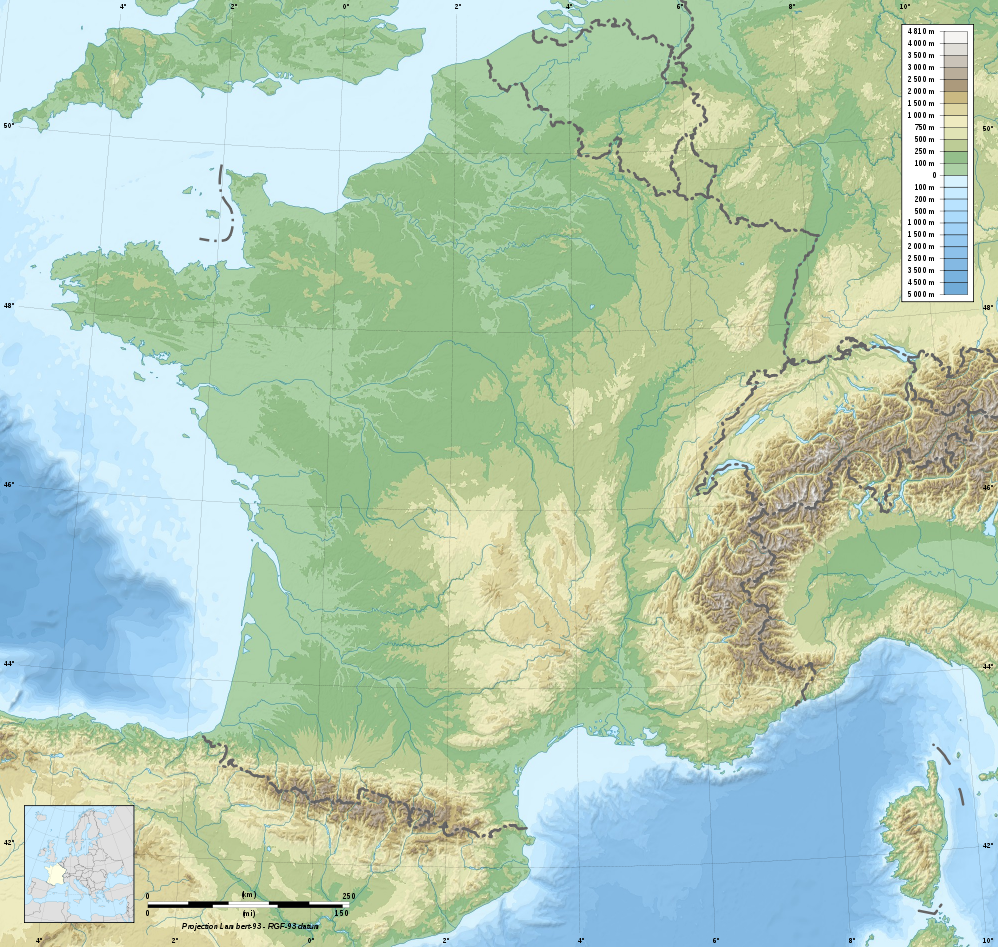
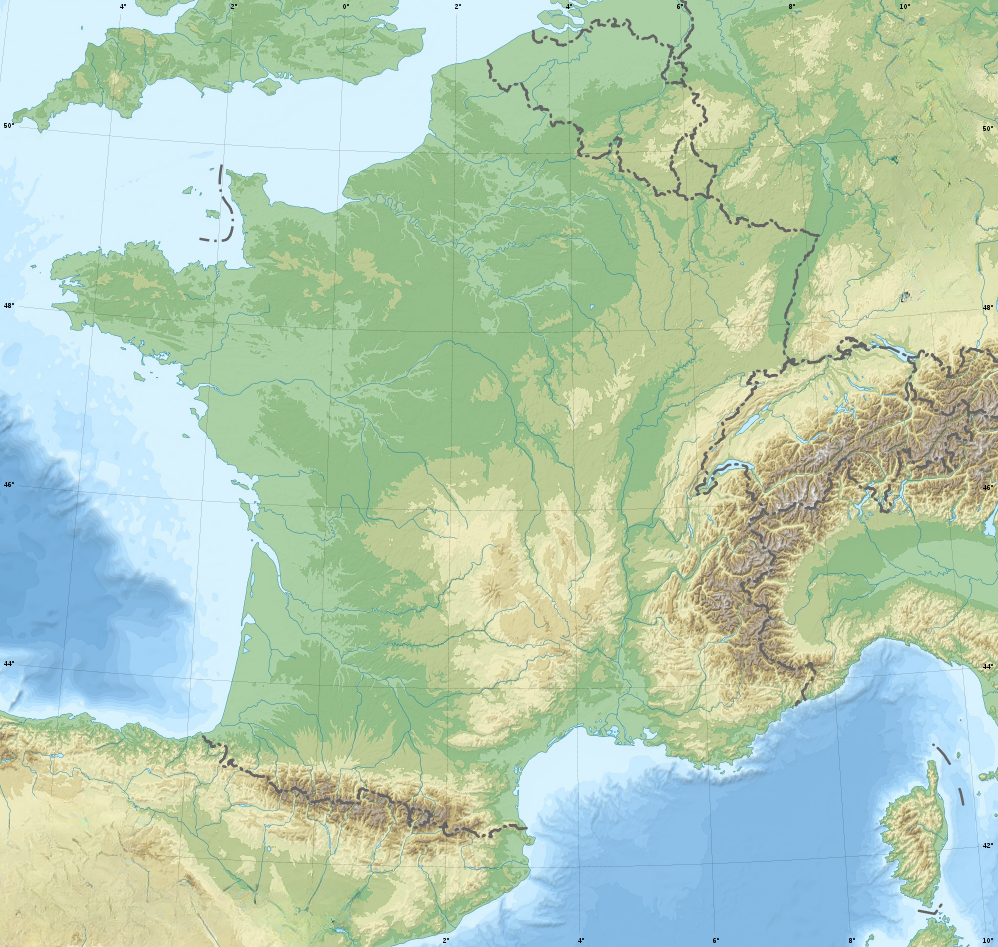
add pin, change map pic, modify PagePrincipale.css for pin and Map, css for PagePrincipale

Changed region(s): [[0.0, 0.8268, 0.3727, 1.0], [0.8697, 0.0, 0.994, 0.3369]]

diff --git a/client/src/components/styles/PagePrincipale.css b/client/src/components/styles/PagePrincipale.css
@@ -2,23 +2,29 @@
   display: flex;
   background-image: url("../../assets/images/Carte_France_Temporaire.png");
   border-radius: 40px;
-  margin-left: 40px;
-  height: 947px;
-  width: 998px;
+  margin-left: 100px;
+  height: 95vh;
+  width: 60vw;
+  margin-top: -180px;
+  background-size: cover;
+  flex-wrap: wrap;
+  justify-content: center;
+  align-content: center;
 }
-
-/* Nouvelle image map , chatGPT par Lucas */
-
-/* Mettre le component, en css : 44 vh  */
-/* Mettre l'image en background en "fit le contenent" */
 
 .main {
   display: flex;
   height: 100vh;
-  /* background-color: brown; */
   justify-content: center;
 }
 
 .img-pin {
   height: 50px;
+}
+
+.interieur-map {
+  display: flex;
+  flex-wrap: wrap;
+
+  /* background-color: black; */
 }

diff --git a/client/src/components/Pin.jsx b/client/src/components/Pin.jsx
@@ -3,8 +3,12 @@ import "./styles/PagePrincipale.css";
 function Pin() {
   return (
     <>
-      {/* <img className="img-pin" src="../src/assets/images/pin.png" /> */}
-      <p>test de pin</p>
+      <img
+        className="img-pin"
+        src="../src/assets/images/pin.png"
+        alt="epingle"
+      />
+      <p>juste pour que le eslint passe</p>
     </>
   );
 }

diff --git a/client/src/components/Map.jsx b/client/src/components/Map.jsx
@@ -4,8 +4,12 @@ import "./styles/PagePrincipale.css";
 function Map() {
   return (
     <div className="map">
-      <p> dsfdsfsdfs</p>
-      <Pin />
+      <div className="interieur-map">
+        <Pin />
+        <Pin />
+        <Pin />
+        <Pin />
+      </div>
     </div>
   );
 }
